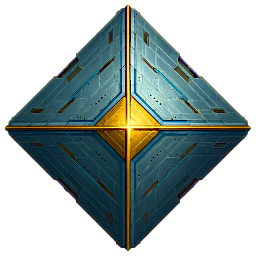
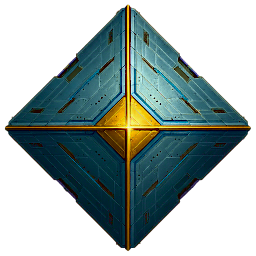
Base Image adjustments

diff --git a/source/server/model/ships/brakiri/ishtakaton.php b/source/server/model/ships/brakiri/ishtakaton.php
@@ -11,7 +11,7 @@ class Ishtakaton extends StarBaseSixSections
 		$this->phpclass = "Ishtakaton";
 		$this->shipClass = "Ishtakaton Techbase";
 		$this->imagePath = "img/ships/BrakiriIshtaka.png";
-		$this->canvasSize = 320;
+		$this->canvasSize = 280;
 		$this->fighters = array("normal" => 24);
 		$this->isd = 2256;
 		$this->notes = 'Im-Rehsa Technologies';//Corporation producing the design

diff --git a/source/server/model/ships/torata/torataColotnarBase2220.php b/source/server/model/ships/torata/torataColotnarBase2220.php
@@ -14,7 +14,7 @@ class TorataColotnarBase2220 extends SmallStarBaseFourSections
 		$this->shipClass = "Colotnar Defense Base (2220)";
 		$this->variantOf = "Colotnar Defense Base";
 		$this->imagePath = "img/ships/TorataColotnar.png";
-		$this->canvasSize = 350;
+		$this->canvasSize = 280;
 		$this->fighters = array("heavy"=>48);
 		$this->isd = 2220;
 

diff --git a/source/server/model/ships/torata/torataColotnarBase2242.php b/source/server/model/ships/torata/torataColotnarBase2242.php
@@ -14,7 +14,7 @@ class TorataColotnarBase2242 extends SmallStarBaseFourSections
 		$this->shipClass = "Colotnar Defense Base (2242)";
 		$this->variantOf = "Colotnar Defense Base";
 		$this->imagePath = "img/ships/TorataColotnar.png";
-		$this->canvasSize = 350;
+		$this->canvasSize = 280;
 		$this->fighters = array("heavy"=>48);
 		$this->isd = 2242;
 

diff --git a/source/server/model/ships/torata/torataColotnarBase.php b/source/server/model/ships/torata/torataColotnarBase.php
@@ -13,7 +13,7 @@ class TorataColotnarBase extends SmallStarBaseFourSections
 		$this->phpclass = "TorataColotnarBase";
 		$this->shipClass = "Colotnar Defense Base";
 		$this->imagePath = "img/ships/TorataColotnar.png";
-		$this->canvasSize = 350;
+		$this->canvasSize = 280;
 		$this->fighters = array("heavy"=>48);
 		$this->isd = 2256;
 

diff --git a/source/server/model/ships/pakmara/Urshtalu.php b/source/server/model/ships/pakmara/Urshtalu.php
@@ -11,7 +11,7 @@ class Urshtalu extends StarBaseSixSections
 		$this->phpclass = "Urshtalu";
 		$this->shipClass = "Urshtalu Starbase";
 		$this->imagePath = "img/ships/PakmaraUrshtalu.png";
-		$this->canvasSize = 310;
+		$this->canvasSize = 256;
 		$this->fighters = array("normal" => 36);
 		$this->isd = 2221;
 

diff --git a/source/server/model/ships/vree/Tyllz.php b/source/server/model/ships/vree/Tyllz.php
@@ -11,7 +11,7 @@ class Tyllz extends StarBaseSixSections
 		$this->phpclass = "Tyllz";
 		$this->shipClass = "Tyllz Sector Trading Post";
 		$this->imagePath = "img/ships/VreeTyllz.png";
-		$this->canvasSize = 310;
+		$this->canvasSize = 256;
 		$this->fighters = array("normal" => 24);
 		$this->isd = 2252;
 
